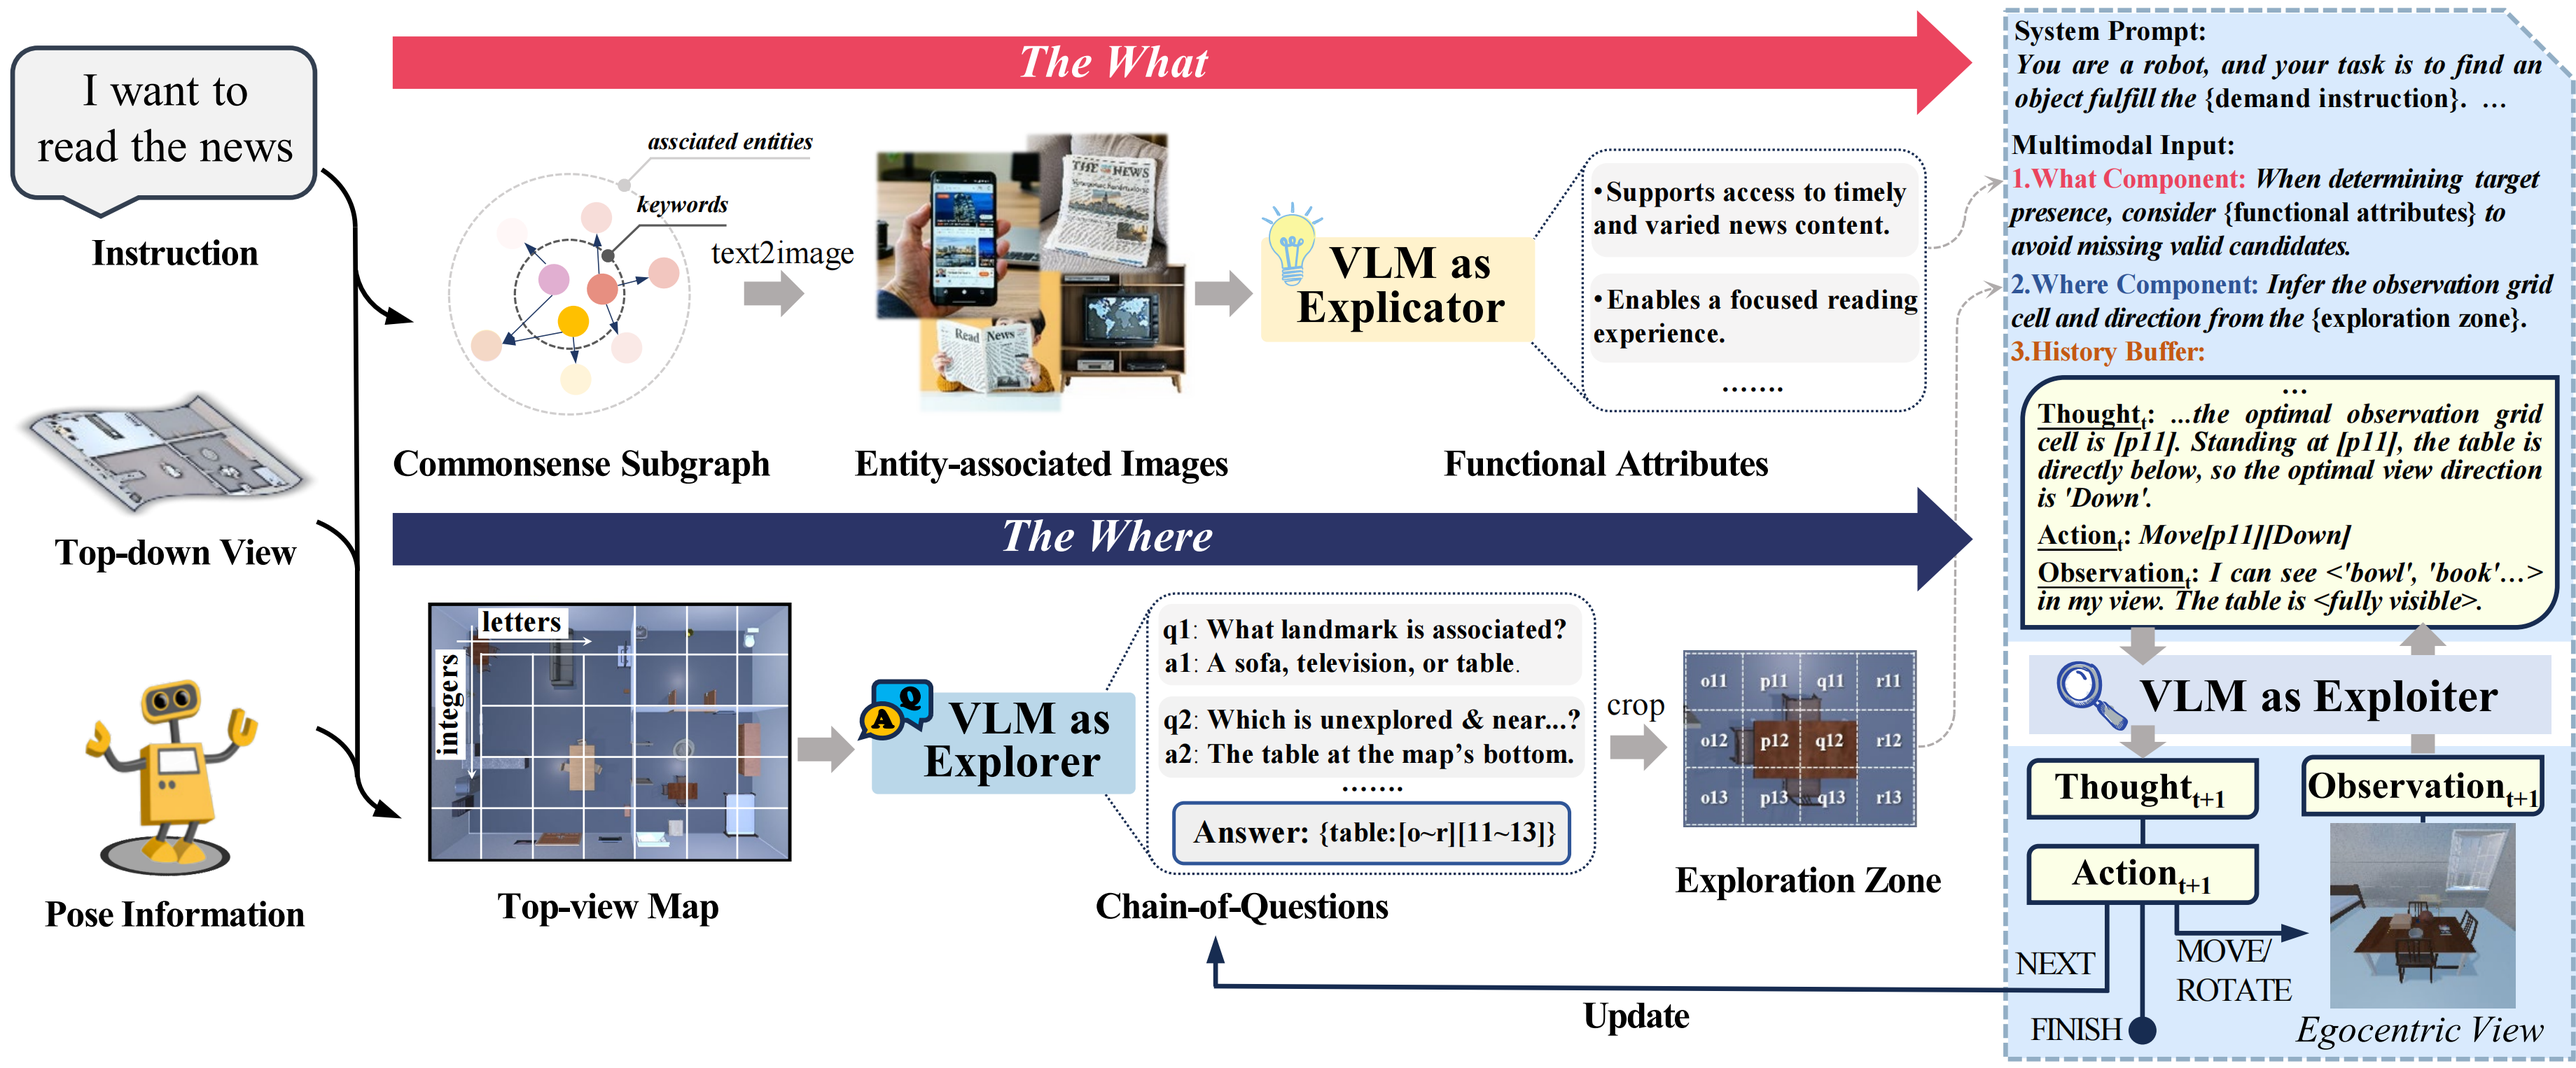
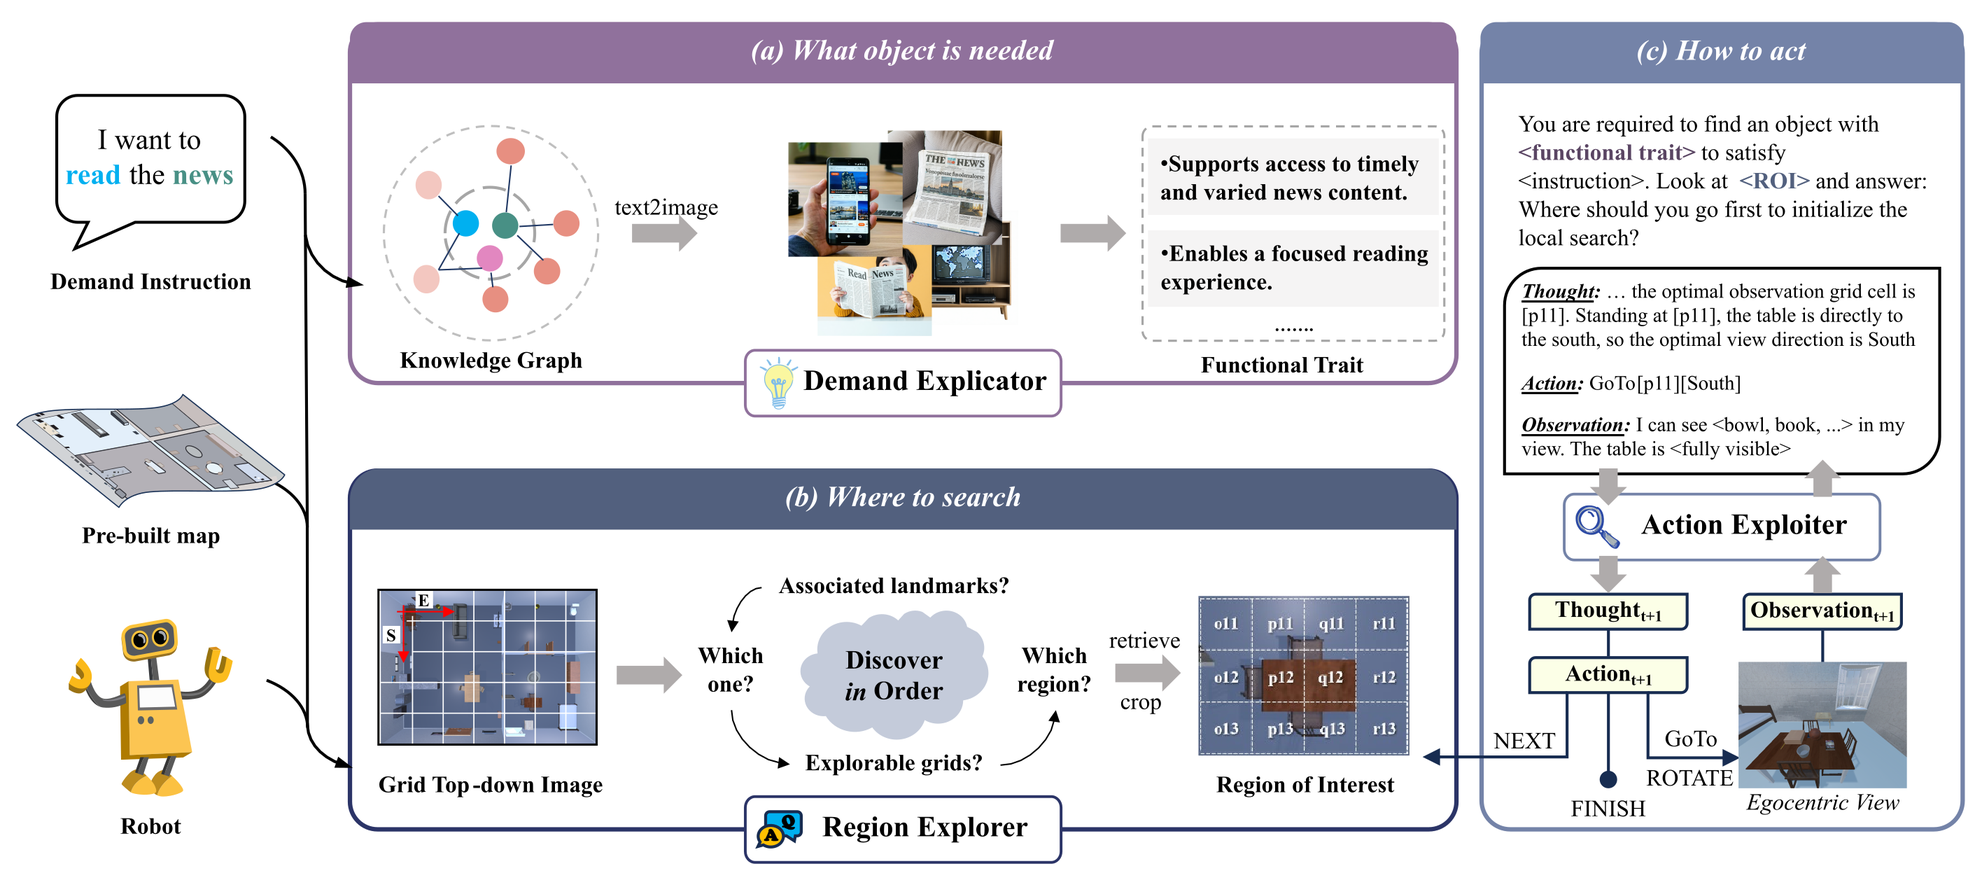
0617

diff --git a/index.html b/index.html
@@ -33,7 +33,7 @@
     <div class="container is-max-desktop">
       <div class="columns is-centered">
         <div class="column has-text-centered">
-          <h1 class="title is-3 publication-title">What&amp;Where: Cognition-Inspired Multi-VLM Collaboration <br> for Demand-Driven Dynamic Object Search</h1>
+          <h1 class="title is-3 publication-title">What&amp;Where: Demand-Driven Dynamic Object Search <br> via Vision-Language Model Collaboration</h1>
 
           <div class="publication-authors">
             <span class="author-block">
@@ -86,7 +86,7 @@
         <h2 class="title is-3">Abstract</h2>
         <div class="content has-text-justified">
           <p>
-            Object search is an essential skill for persistent in-home agents. However, this task is highly challenging due to the occasional ambiguity of natural language instructions and the open-ended environment. Existing solutions either adopt a single-run exploration strategy, which is ill-suited for persistent in-home agents, or rely on rigid language templates and additional semantic models which limit the agent's adaptability. We address this limitation and propose a method, coined What&amp;Where, that leverages vision-language models to equip agents with a cognitive perspective on what to search and where to search. What&amp;Where consists of two core components. The "what" component incorporates external knowledge to generate entity-associated images and summarizes functional attributes of the target, supporting instruction understanding and target assessment. The "where" component predicts the exploration zone from an accessible top-view and adjusts in response to planning feedback. Finally, guided by the "where" and "what" components, the agent alternately observes, reasons, and acts to perform local planning and complete the given task. Experiments on the ProcTHOR simulation platform demonstrate state-of-the-art performance of our approach, while real-world results highlight its strong transferability and generalizability.
+            Having robots find daily objects according to human demands is essential for intelligent domestic service. However, the underspecified identity of target objects in human high-level demand instructions, compounded by their lack of fixed locations across daily routines, introduces significant challenges to existing object search methods. This paper investigates demand-driven dynamic object search (D-DOS) for everyday household assistance. Accordingly, we propose What&amp;Where, a Vision-Language Model (VLM)-powered collaborative framework that explicitly considers what makes objects suitable for user demands and where the search should be prioritized in the environment. For ``what'' reasoning, the Demand Explicator interprets user demands into functional traits that desired objects should possess, enabling flexible target matching among diverse alternatives. For ``where'' reasoning, the Region Explorer grounds the search region in the global top-down view of the environment, while the Action Exploiter performs local search and revisits region selection as needed, enabling adaptive search in complex household environments. Experiments on the ProcTHOR simulator show that What&amp;Where consistently outperforms strong baselines in both success rate and task efficiency. Real-world evaluations further demonstrate its practical effectiveness in household service scenarios.
           </p>
         </div>
       </div>
@@ -100,7 +100,7 @@
         <h2 class="title is-3">Approach</h2>
         <div class="content has-text-justified">
           <p>
-            In the "what" path, the VLM acts as an imaginator and generates entity-associated images by prompting with external commonsense knowledge. Their functional attributes are then summarized to interpret the instruction. In the "where" path, the VLM acts as an explorer and infers the task-relevant exploration zone from the top-down map through a chain-of-question reasoning process. Finally, the VLM acts as an exploiter, leveraging both “what” and “where” reasoning to select the optimal cell and viewing direction, iteratively exploring until the FINISH output. During this process, each NEXT action updates the exploration zone.
+            Given high-level demand instructions, our framework employs VLMs as three specialized agents to collaboratively search for demand objects.
           </p>
           <img src="./static/videos/framework.png" alt="framework" style="max-width:100%; height:auto;">
         </div>
